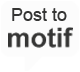
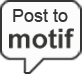
fix color

diff --git a/spectrum.js b/spectrum.js
@@ -91,11 +91,7 @@
                         "<input class='sp-input' type='text' spellcheck='false'  />",
                     "</div>",
                     "<div class='sp-initial sp-thumb sp-cf'></div>",
-                    "<div class='sp-button-container sp-cf'>",
-                    	"<table><tr><td><button class='sp-choose'></button></td>",
-						"<td width = '15px'></td>",
-                        "<td><a class='sp-cancel' href='#'></a></td></tr></table>",
-                    "</div>",
+                   
                 "</div>",
             "</div>"
         ].join("");
@@ -179,8 +175,6 @@
             textInput = container.find(".sp-input"),
             paletteContainer = container.find(".sp-palette"),
             initialColorContainer = container.find(".sp-initial"),
-            cancelButton = container.find(".sp-cancel"),
-            chooseButton = container.find(".sp-choose"),
             isInput = boundElement.is("input"),
             shouldReplace = isInput && !flat,
             replacer = (shouldReplace) ? $(replaceInput).addClass(theme) : $([]),
@@ -192,8 +186,6 @@
             currentPreferredFormat = preferredFormat,
             clickoutFiresChange = !opts.showButtons || opts.clickoutFiresChange;
 
-        chooseButton.text(opts.chooseText);
-        cancelButton.text(opts.cancelText);
 
         function initialize() {
 			
@@ -248,21 +240,7 @@
             });
             textInput.keydown(function (e) { if (e.keyCode == 13) { setFromTextInput(); } });
 
-            cancelButton.bind("click.spectrum", function (e) {
-                e.stopPropagation();
-                e.preventDefault();
-                hide("cancel");
-            });
-
-            chooseButton.bind("click.spectrum", function (e) {
-                e.stopPropagation();
-                e.preventDefault();
-
-                if (isValid()) {
-                    updateOriginalInput(true);
-                    hide();
-                }
-            });
+            
 
             draggable(alphaSlider, function (dragX, dragY, e) {
                 currentAlpha = (dragX / alphaWidth);
@@ -414,6 +392,7 @@
             visible = true;
 
             $(doc).bind("click.spectrum", hide);
+			window.onmousedown = hide;
             $(window).bind("resize.spectrum", resize);
             replacer.addClass("sp-active");
             container.show();
@@ -431,12 +410,14 @@
         }
 
         function hide(e) {
-
             // Return on right click
             if (e && e.type == "click" && e.button == 2) { return; }
 
             // Return if hiding is unnecessary
             if (!visible || flat) { return; }
+			
+			choose(e);
+
             visible = false;
 
             $(doc).unbind("click.spectrum", hide);
@@ -486,6 +467,14 @@
         function get() {
             return tinycolor.fromRatio({ h: currentHue, s: currentSaturation, v: currentValue, a: Math.round(currentAlpha * 100) / 100 });
         }
+		function choose(e){
+			 e.stopPropagation();
+		        e.preventDefault();
+		        if (isValid()) {
+		            updateOriginalInput(true);
+		        }
+
+		}
 
         function isValid() {
             return !textInput.hasClass("sp-validation-error");
@@ -713,6 +702,9 @@
             return func.apply(obj, args.concat(slice.call(arguments)));
         }
     }
+
+
+
 
     /**
     * Lightweight drag helper.  Handles containment within the element, so that

diff --git a/drawing_canvas.js b/drawing_canvas.js
@@ -194,6 +194,7 @@ function changeColor(){
 
 function save(){
 	var val = $('.commentBox:last')[0].value;
+	if(val == "Type comments here!") val = "";
 	var dataURL = canvas.toDataURL();
 	var request = new XMLHttpRequest();
 	request.open('POST', 'save_image.php', false);

diff --git a/annotate.php b/annotate.php
@@ -102,7 +102,6 @@ function clearComment(element) {
 
 <div data-role="page">
 
-<script src="//cdn.optimizely.com/js/141302022.js"></script><!-- For optimizely A/B testing -->
 
 	<div data-role="header">
 		<h1 style="font-family: Courier; font-size: 18px;">motif</h1>
@@ -184,7 +183,7 @@ function clearComment(element) {
 				<textarea class="commentBox" cols="100" rows="100" onclick = "clearComment(this)">Type comments here!</textarea>
 			</td>
 			<td style = "width:70px;background-color:#B0B0B0;vertical-align:center;text-align:center">	
-				<img src = "icons/post.png" style="width:60px;height:60px" onclick="saveComment()">
+				<img src = "icons/post-to-motif.png" style="width:60px;height:60px" onclick="saveComment()">
 			</td>
 		</tr>
 	</table>

diff --git a/annotate_vers2.php b/annotate_vers2.php
@@ -102,7 +102,6 @@ function clearComment(element) {
 
 <div data-role="page">
 
-<script src="//cdn.optimizely.com/js/141302022.js"></script><!-- For optimizely A/B testing -->
 
 	<div data-role="header">
 		<h1 style="font-family: Courier; font-size: 18px;">motif</h1>
